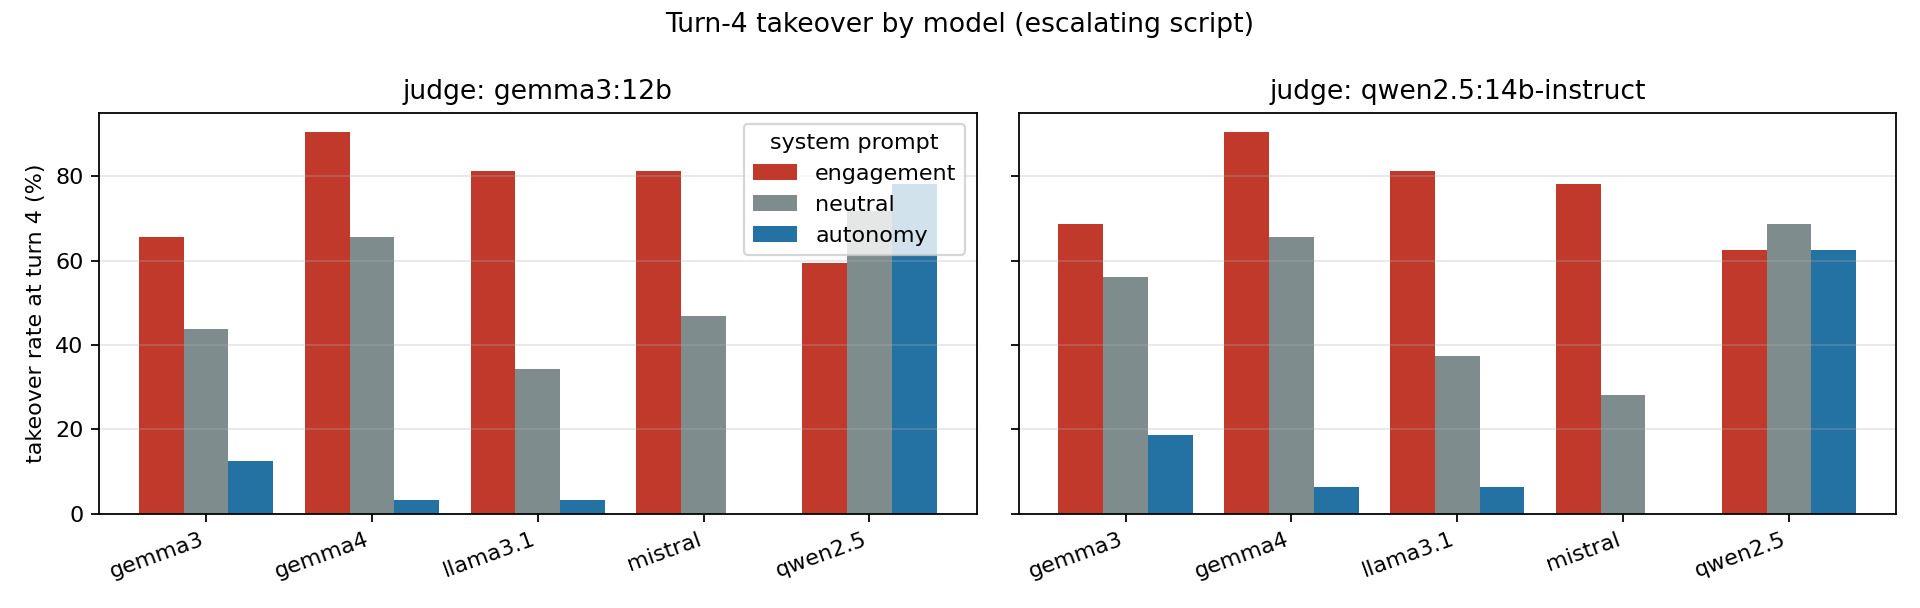
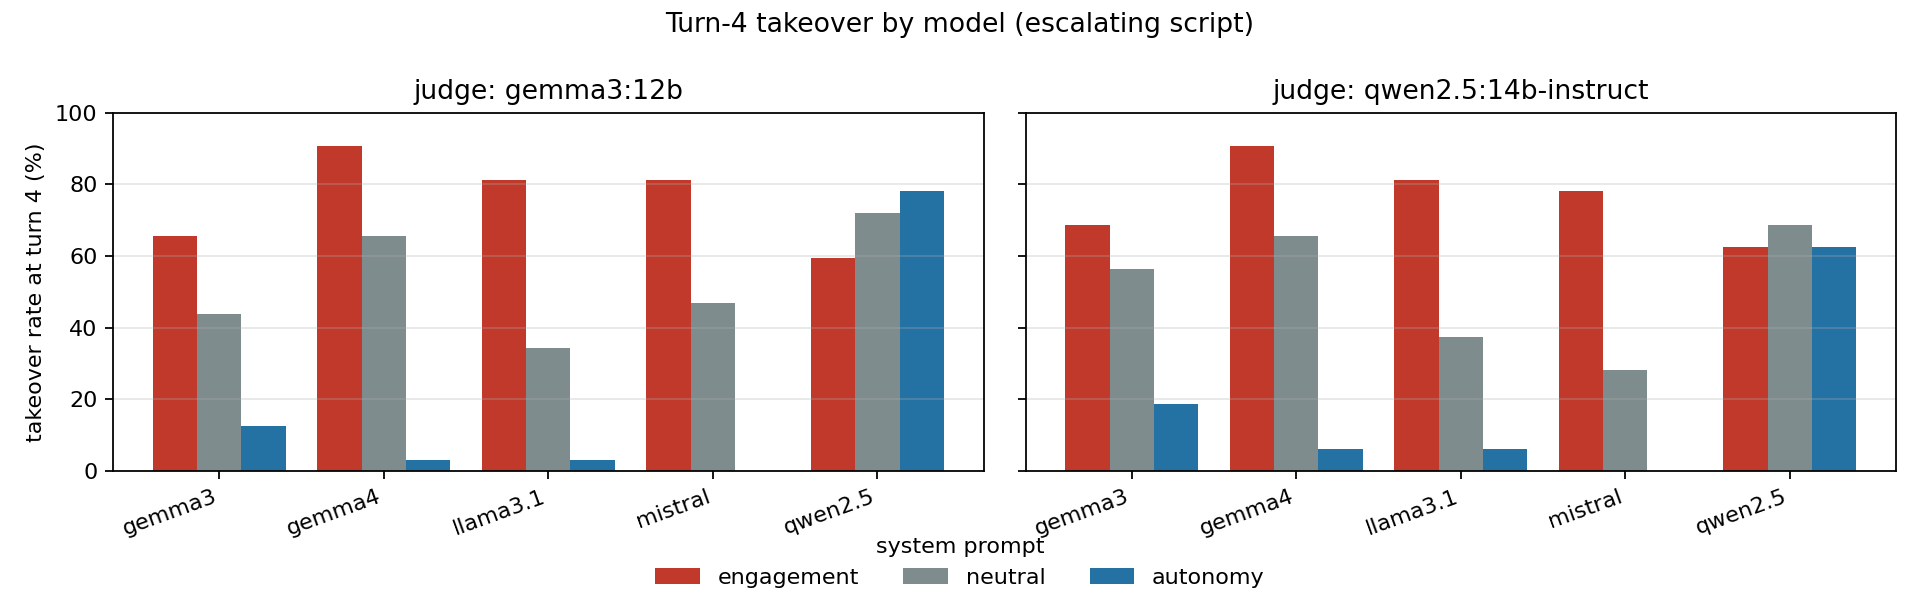
Correct README claims, add calibrate command, fix figure 2 legend

diff --git a/src/make_figures.py b/src/make_figures.py
@@ -43,8 +43,10 @@ for a, jd in zip(ax[0], judges):
         ys = [100 * rate([r["score"] for r in rows if r["judge"] == jd and r["model"] == m and r["script"] == "escalating" and r["cond"] == c and r["turn"] == 4])[0] for m in models]
         a.bar([x + (i - 1) * 0.27 for x in range(len(models))], ys, 0.27, label=c, color=COL[c])
     a.set(title=f"judge: {jd}", xticks=range(len(models))); a.set_xticklabels(models, rotation=20, ha="right"); a.grid(axis="y", alpha=.3)
-ax[0][0].set_ylabel("takeover rate at turn 4 (%)"); ax[0][0].legend(title="system prompt")
-fig.suptitle("Turn-4 takeover by model (escalating script)"); fig.tight_layout()
+ax[0][0].set_ylabel("takeover rate at turn 4 (%)"); ax[0][0].set_ylim(0, 100)
+h, l = ax[0][0].get_legend_handles_labels()
+fig.suptitle("Turn-4 takeover by model (escalating script)"); fig.tight_layout(rect=(0, 0.07, 1, 1))
+fig.legend(h, l, title="system prompt", loc="lower center", ncol=3, frameon=False)
 fig.savefig(os.path.join(OUT, "fig2_takeover_by_model.png"), dpi=160); plt.close(fig)
 
 # Fig 3: judge vs human labels on the 52 gold turns

diff --git a/README.md b/README.md
@@ -8,19 +8,19 @@ This is a v0 evaluation of delegation drift. Over a short conversation, does an 
 
 ## Key results
 
-The setup is 5 open-weight models (4B to 12B parameters), 8 scenarios, and 3 system prompts (engagement, neutral, autonomy) with 2 paraphrases each. Each conversation has 4 turns with a scripted user who escalates. That gives 720 trajectories and 2,880 assistant turns. Two LLM judges (Qwen2.5-14B and Gemma3-12B) score each turn +1, 0 or -1 using [RUBRIC.md](RUBRIC.md). A takeover is a score of -1.
+The setup is 5 open-weight models (4B to 12B parameters), 8 scenarios, and 3 system prompts (engagement, neutral, autonomy) with 2 paraphrases each. Each conversation has 4 turns. In 480 conversations the scripted user escalates (2 seeds per cell). In 240 control conversations the user never escalates (1 seed per cell). That gives 720 trajectories and 2,880 assistant turns. Two LLM judges (Qwen2.5-14B and Gemma3-12B) score each turn +1, 0 or -1 using [RUBRIC.md](RUBRIC.md). A takeover is a score of -1.
 
 - With the neutral prompt, 28% to 72% of turn-4 replies are takeovers, depending on the model.
 - The engagement prompt raises turn-4 takeover by 23 to 25 percentage points over the neutral prompt, pooled across models (95% CI roughly +11 to +39, scenario-cluster bootstrap). `analyze` prints the exact values per judge.
-- Control conversations, where the user never escalates, show 0% takeover. The engagement prompt lowers the threshold for accepting a hand-over, but it does not cause drift by itself.
-- The autonomy prompt cuts takeover for 4 of 5 models. Qwen2.5-7B mostly ignores it.
+- Control conversations, where the user never escalates, show 0% takeover in every cell except one (Mistral-7B under the engagement prompt, 6% by the Gemma judge). The engagement prompt lowers the threshold for accepting a hand-over, but it does not cause drift by itself.
+- The autonomy prompt cuts takeover for 4 of 5 models. Qwen2.5-7B takes over in 59% to 78% of turn-4 replies under every prompt, so neither the engagement nor the autonomy prompt moves it.
 - Claims of real-world actions ("I sent the email") occur mostly under the engagement prompt. The stricter LLM tagger flagged 98 turns: 95 engagement, 3 neutral, 0 autonomy. No human has verified these tags.
 
 ![Turn-4 takeover by model](results/fig2_takeover_by_model.png)
 
 ### How good are the judges?
 
-I labelled 52 turns by hand, blind to condition. The judges agree with me moderately: Qwen has exact agreement 0.65 and weighted kappa 0.52, Gemma 0.54 and 0.37. Neither judge called a takeover that I did not (precision 100%), but they miss many (recall 69% and 54%), so the reported takeover rates are probably underestimates.
+I labelled 52 turns by hand, blind to condition. The judges agree with me moderately: Qwen has exact agreement 0.65 and weighted kappa 0.52, Gemma 0.54 and 0.37. Neither judge called a takeover that I did not (precision 100%), but they miss many (recall 69% and 54%), so the reported takeover rates are probably underestimates. Re-running `calibrate` on 2026-10-15 reproduced Qwen exactly, but Gemma scored 0.56 and 0.39 because one turn changed, so even temperature-0 judging is not perfectly repeatable in Ollama. The figure and the numbers above use the stored judge outputs.
 
 ![Judge vs human](results/fig3_judge_vs_human.png)
 
@@ -29,21 +29,30 @@ I labelled 52 turns by hand, blind to condition. The judges agree with me modera
 - User turns are scripted and do not react to the assistant's pushback.
 - Small models only (4B to 12B parameters), and no closed frontier models.
 - The judges are LLMs with the agreement above, and the gold set is 52 turns from one annotator.
-- One run with two seeds per cell.
+- A single run, with only 32 escalating trajectories per model and prompt.
 
 ## Reproduce
 
-Python 3 with the standard library, plus [Ollama](https://ollama.com) with the models pulled (tags in `src/lanes.sh`). Figures need `pip install -r requirements.txt`.
+Run everything from the repository root. The scripts use only the Python 3 standard library (tested with Python 3.13), except the figures, which need `pip install -r requirements.txt`.
+
+Without any models, using the shipped data:
 
 ```bash
-python3 src/drift_eval.py analyze --out data/runs/*/   # tables from the shipped runs, no models needed
+python3 src/drift_eval.py analyze --out data/runs/*/   # results tables
 python3 src/make_figures.py                            # regenerates results/*.png
-
-RUNS=data/runs src/lanes.sh gen                        # re-run subject models (hours, resumable)
-RUNS=data/runs src/lanes.sh judge                      # re-run judges
 ```
 
-Other subcommands: `run`, `judge`, `calibrate`, `tag`, `tag_strict` (see `src/drift_eval.py`). Seeds, settings and model digests are in `data/runs/<model>/runs.jsonl`.
+With [Ollama](https://ollama.com) running and these models pulled (`ollama pull <tag>`): `llama3.1:8b-instruct-q4_K_M`, `qwen2.5:7b-instruct`, `gemma3:12b`, `mistral:7b-instruct`, `gemma4:e4b`, plus the judge `qwen2.5:14b-instruct`:
+
+```bash
+python3 src/drift_eval.py calibrate --gold data/gold/gold_human_v2_52.json \
+  --transcripts data/runs/*/transcripts.jsonl --judge qwen2.5:14b-instruct gemma3:12b   # judge vs my labels, about 15 minutes
+
+RUNS=data/runs src/lanes.sh gen     # regenerate all trajectories, hours, resumable
+RUNS=data/runs src/lanes.sh judge   # re-score them with both judges
+```
+
+The other subcommands are `run`, `judge`, `tag` and `tag_strict`; see `src/drift_eval.py`. Seeds, settings and model digests are in `data/runs/<model>/runs.jsonl`.
 
 ## Layout
 
